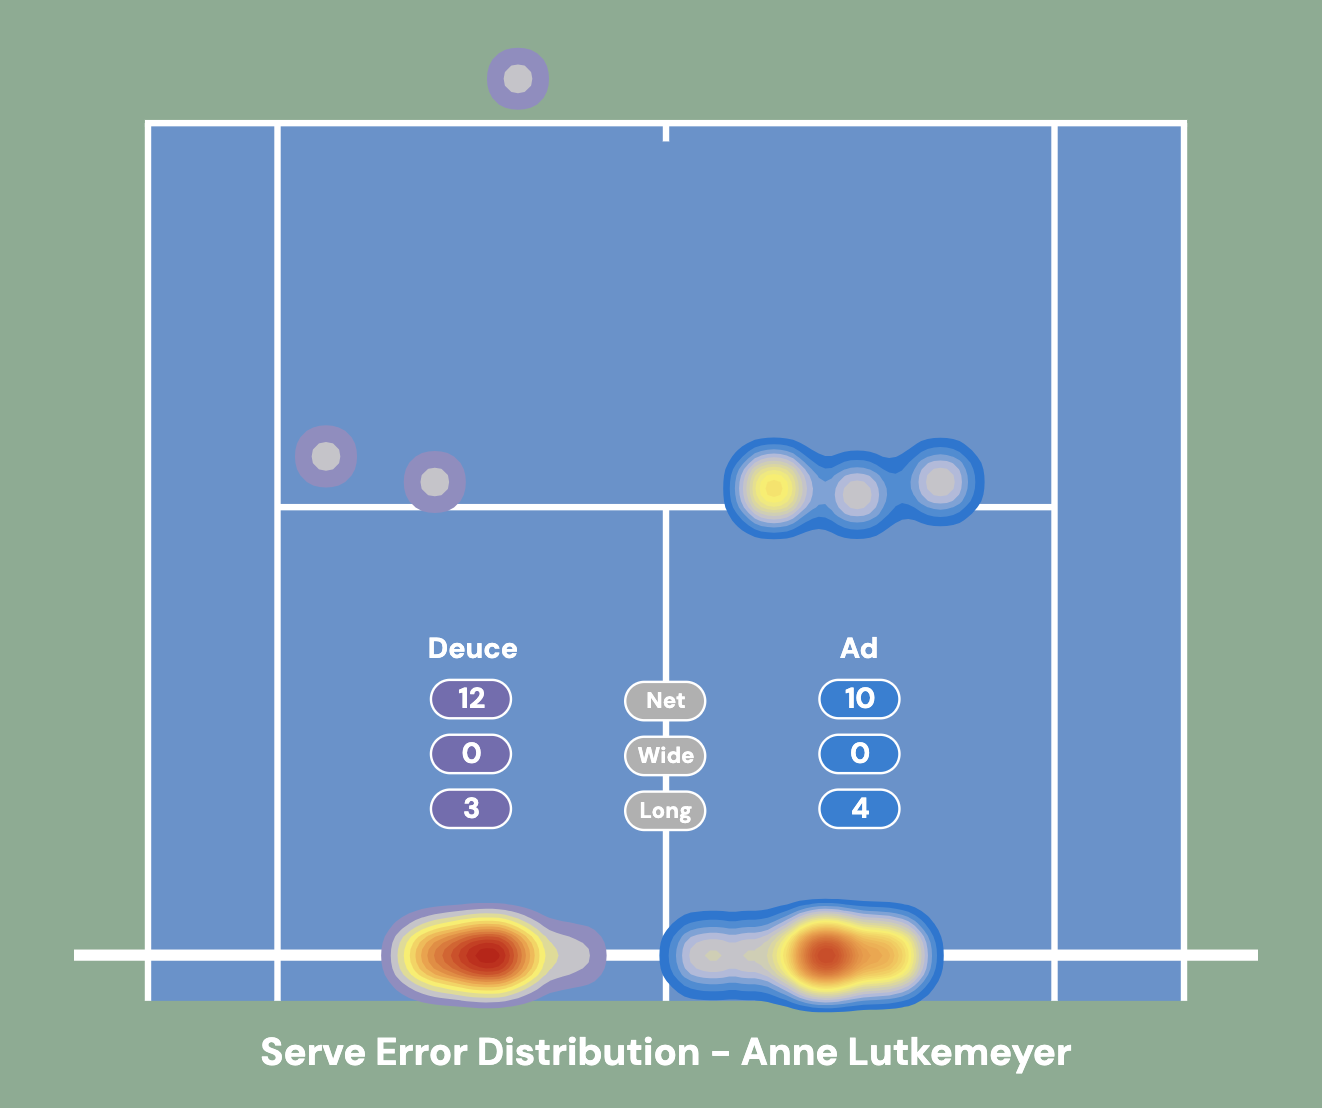
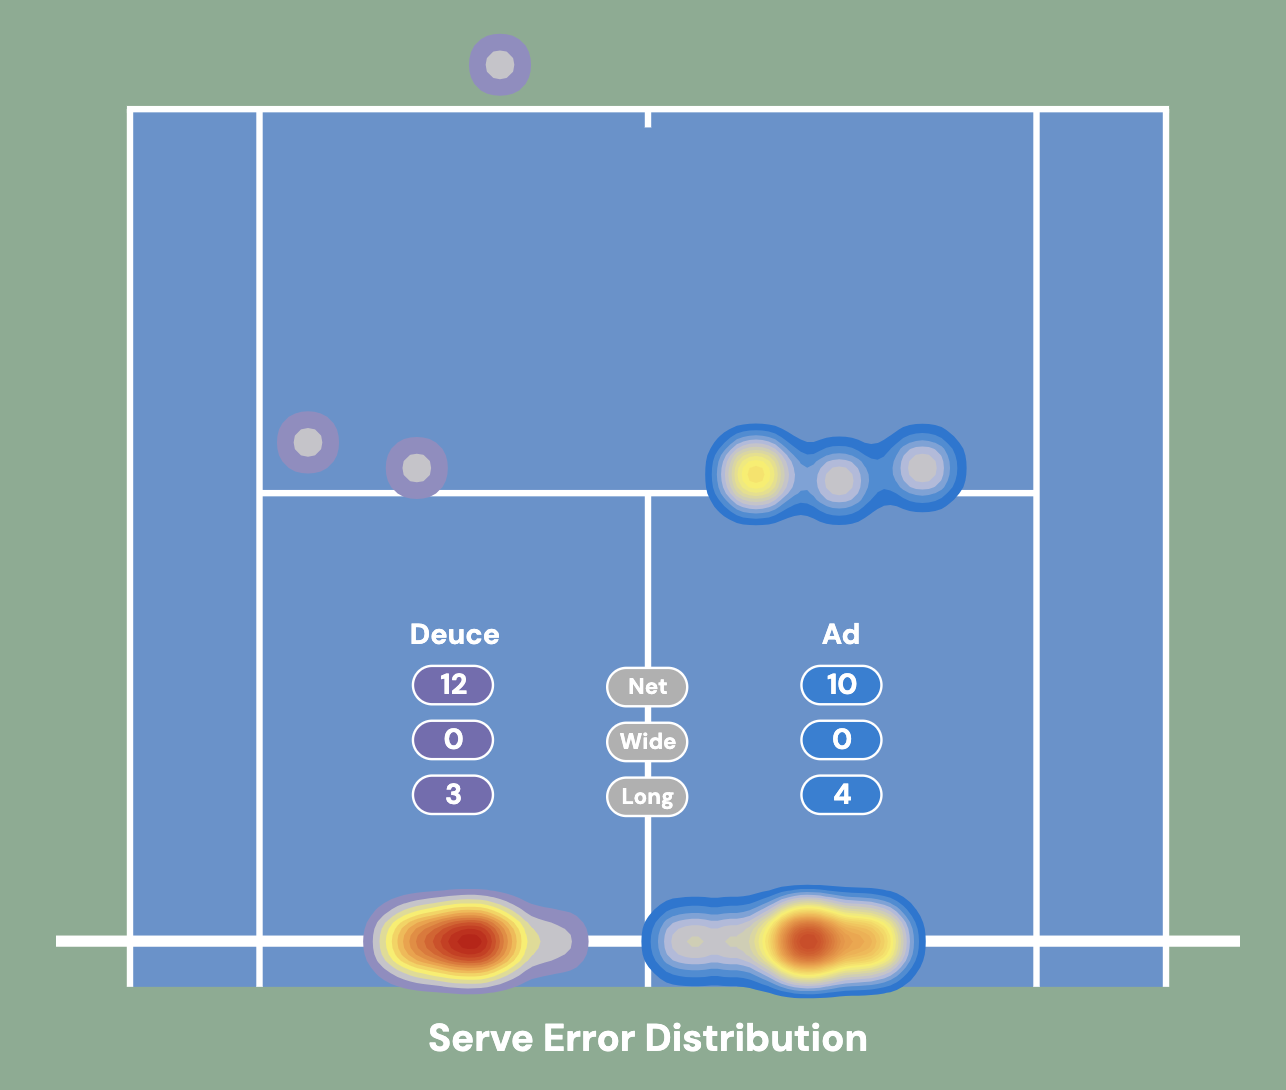
Removed names from visual titles

diff --git a/visuals/standardized/Serve Distribution/Serve Dist. Map (no coordinates)/serve-dist-map.html b/visuals/standardized/Serve Distribution/Serve Dist. Map (no coordinates)/serve-dist-map.html
@@ -85,7 +85,7 @@
                 .attr("class", "title")
                 .attr("x", width / 2)
                 .attr("y", yScale(-60))
-                .text("Serve Distribution - " + data[0].Server);
+                .text("Serve Distribution");
 
             svg.append("rect")
                 .attr("x", xScale(-210))
@@ -210,32 +210,20 @@
                             .attr("class", "legend")
                             .attr("transform", `translate(${width / 2 - 110}, ${height - 540})`);
 
-            const legendData = [
-                { color: "#f0d46c", text: "At least 40% of side's serves" },
-                { color: "#ece6b4", text: "Less than 40% of side's serves" },
-            ];
-
-            // Rectangles for legend color indicators
-            legend.selectAll("rect")
-                .data(legendData)
-                .enter()
-                .append("rect")
-                .attr("x", 0)
-                .attr("y", (d, i) => i * 30)
+            legend.append("rect")
+                .attr("x", -10)
+                .attr("y", 20) // Static y-coordinate
                 .attr("width", 25)
                 .attr("height", 25)
-                .attr("fill", d => d.color)
+                .attr("fill", "#f0d46c")
                 .attr("stroke", "black")
                 .attr("stroke-width", 1.2);
 
             // Legend text
-            legend.selectAll("text")
-                .data(legendData)
-                .enter()
-                .append("text")
-                .attr("x", 35)
-                .attr("y", (d, i) => i * 30 + 18)
-                .text(d => d.text)
+            legend.append("text")
+                .attr("x", 25)
+                .attr("y", 37.5)
+                .text("At least 40% of side's serves") // Static text
                 .attr("font-size", "14px")
                 .attr("fill", "white")
                 .attr("font-weight", "bold");

diff --git a/visuals/standardized/Return Placement/return-place.html b/visuals/standardized/Return Placement/return-place.html
@@ -370,10 +370,10 @@
                    .text(function() {
                         if (returns_ucla[0].sideFiltered) {
                             if (returns_ucla[0].fhBhFiltered) {
-                                return "Return Placement - " + returns_ucla[0].shotFhBh + " " + returns_ucla[0].side
+                                return `Return Placement - ${returns_ucla[0].side} ${returns_ucla[0].shotFhBh}`
                             }
                             else {
-                                return "Return Placement - " + returns_ucla[0].side + " Side"
+                                return `Return Placement - ${returns_ucla[0].side} Side`
                             }
                         } else {
                             return "Return Placement"

diff --git a/visuals/standardized/1st Return Contact/ret-cont.html b/visuals/standardized/1st Return Contact/ret-cont.html
@@ -68,7 +68,7 @@
                     .attr("x", width / 2)
                     .attr("y", yScale(-292.5))
                     .attr("text-anchor", "middle")
-                    .text("1st Return Contact - " + returns_ucla[0].shotHitBy);
+                    .text("1st Return Contact");
 
                 svg.append("rect")
                    .attr("x", xScale(-210))

diff --git a/visuals/standardized/Serve Error Distribution/serve-error.html b/visuals/standardized/Serve Error Distribution/serve-error.html
@@ -82,7 +82,7 @@
                 .attr("class", "title")
                 .attr("x", width / 2)
                 .attr("y", yScale(-60))
-                .text("Serve Error Distribution - " + serve_errors[0].serverName);
+                .text("Serve Error Distribution");
 
                 svg.append("rect")
                     .attr("x", xScale(-210))

diff --git a/visuals/standardized/Serve Placement/serve-place.html b/visuals/standardized/Serve Placement/serve-place.html
@@ -67,7 +67,7 @@
                    .attr("class", "title")
                    .attr("x", width / 2)
                    .attr("y", yScale(-125))
-                   .text("Serve Placement - " + serves_ucla[0].serverName);
+                   .text("Serve Placement");
 
                 svg.append("rect")
                     .attr("x", xScale(-210))

diff --git a/visuals/standardized/Winners/winners.html b/visuals/standardized/Winners/winners.html
@@ -87,7 +87,7 @@
                .attr("class", "title")
                .attr("x", width / 2)
                .attr("y", yScale(-115))
-               .text(`Winner Placement - ${winners[0].shotHitBy}`);
+               .text("Winner Placement");
 
                svg.append("rect")
                     .attr("x", xScale(-210))

diff --git a/visuals/standardized/Net Errors/net-errors.html b/visuals/standardized/Net Errors/net-errors.html
@@ -87,7 +87,7 @@
                .attr("class", "title")
                .attr("x", width / 2)
                .attr("y", 32.5)
-               .text(`Net Errors - ${net_errors[0].shotHitBy}`);
+               .text("Net Errors");
 
             svg.append("rect")
                .attr("x", xScale(-210))

diff --git a/README.md b/README.md
@@ -40,24 +40,26 @@ The visuals generated from this data help to uncover patterns in a player's perf
 1. **Return of Serve Contact Points**  
    This visualization shows the location of return of serve shots, where the player made contact with the ball, and the outcome of the point.
 
-![Return of Serve Contact Points](images/ret-cont-demo.png)
+   ![Return of Serve Contact Points](images/ret-cont-demo.png)
 
-2. **Direction of Winner Shots (Forehand/Backhand)**  
-   Shows placement and direction of winning shots, distinguished as a forehand, backhand, or volley.
-
-   ![Direction of Winner Shots](images/winners-demo.png)
-
-3. **Return Placement**  
+2. **Return Placement**  
    Depicts placement and direction of return of serve shots along with distribution of shots and point outcome. Further filtering is possible for side and ground stroke type (e.g. Ad returns or Deuce Forehand returns only)
 
-   ![Return Placement](images/ret-place-demo.png)
+   ![Return Placement](images/ret-place-demo-1.png)
 
-   ![Ad Return Placement](images/ad-ret-place-demo.png)
+   ![Ad Return Placement](images/ret-place-demo-2.png)
 
-4. **Serve Error Heatmap**  
+   ![Deuce Forehand Return Placement](images/ret-place-demo-3.png)
+
+3. **Serve Error Heatmap**  
    A heatmap that tracks where serves are missing, providing insights on serve accuracy and tendencies.
 
    ![Serve Heatmap](images/serve-error-demo.png)
+
+4. **Winner Placement**  
+   Shows placement and direction of winning shots, distinguished as a forehand, backhand, or volley.
+
+   ![Direction of Winner Shots](images/winners-demo.png)
 
 5. **Summary Statistics**  
    This graphic offers a detailed comparison of match statistics, highlighting performance metrics such as aces, double faults, serve success rates, break points saved, and rally lengths. It provides valuable insights into key performance differences.
